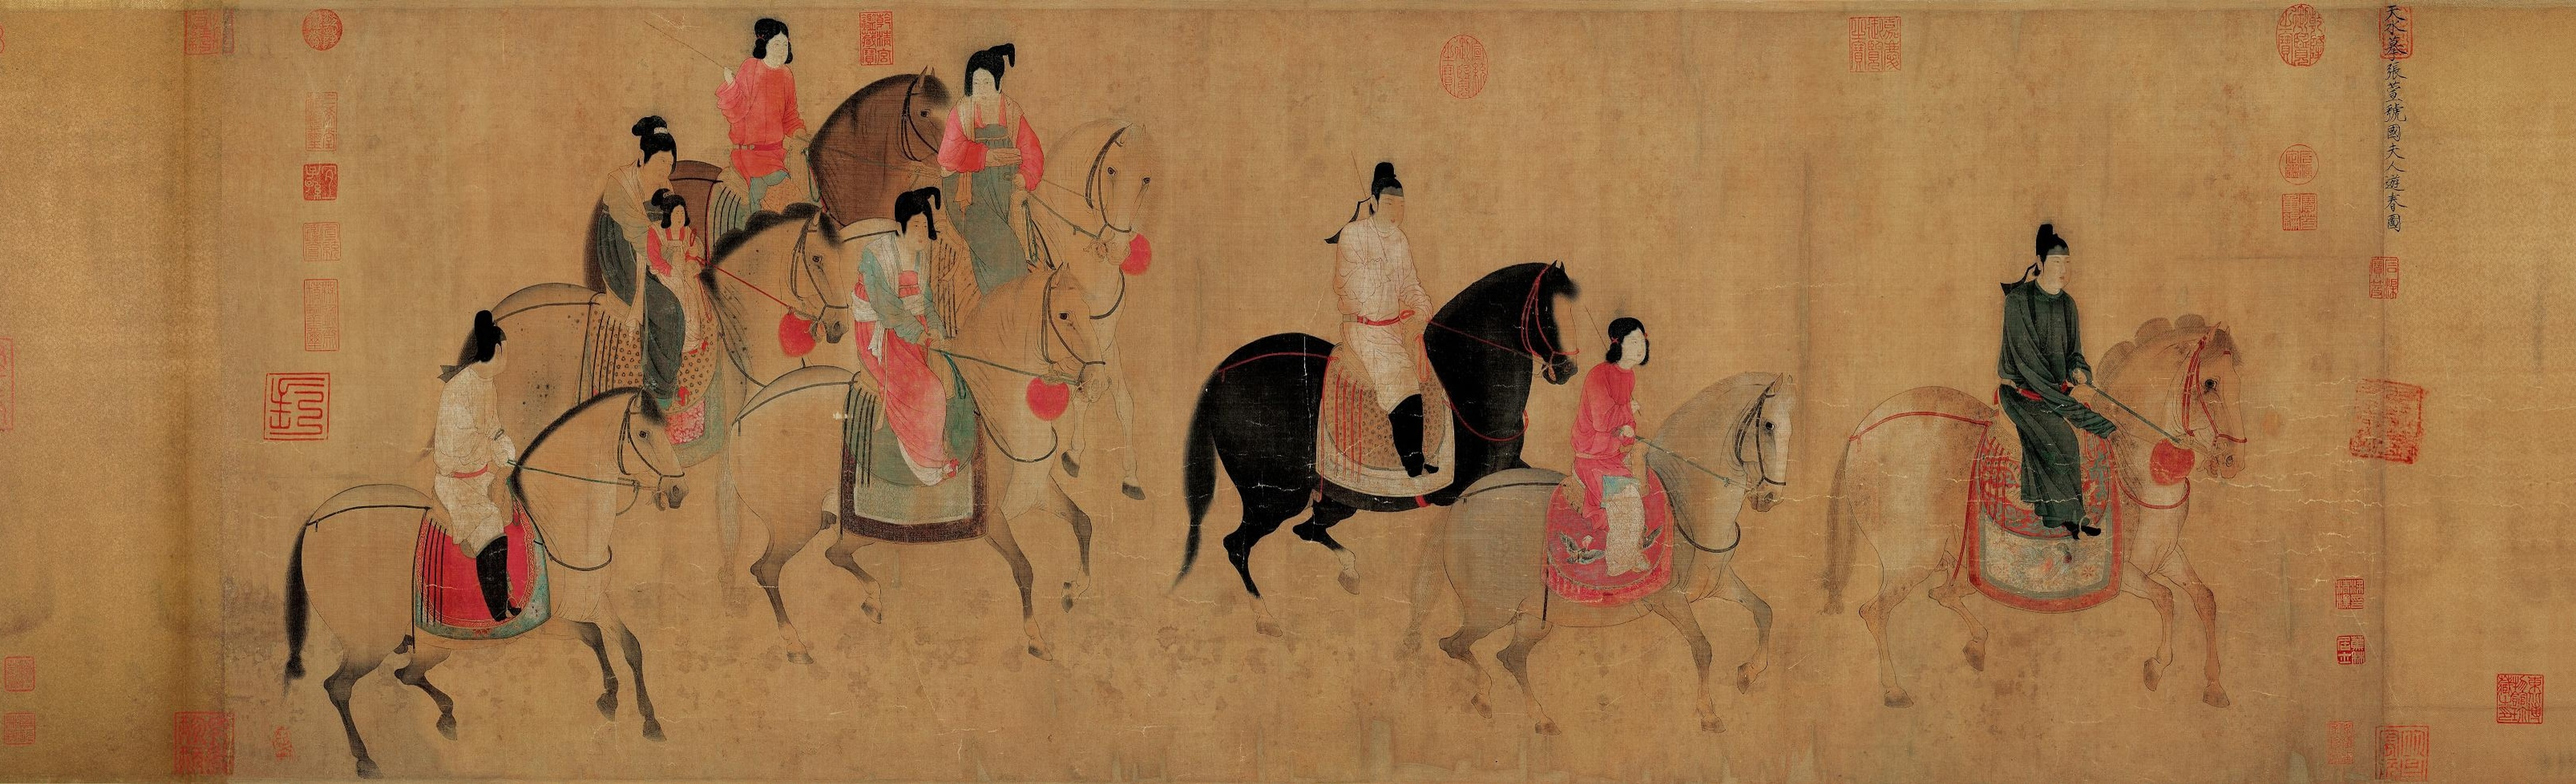
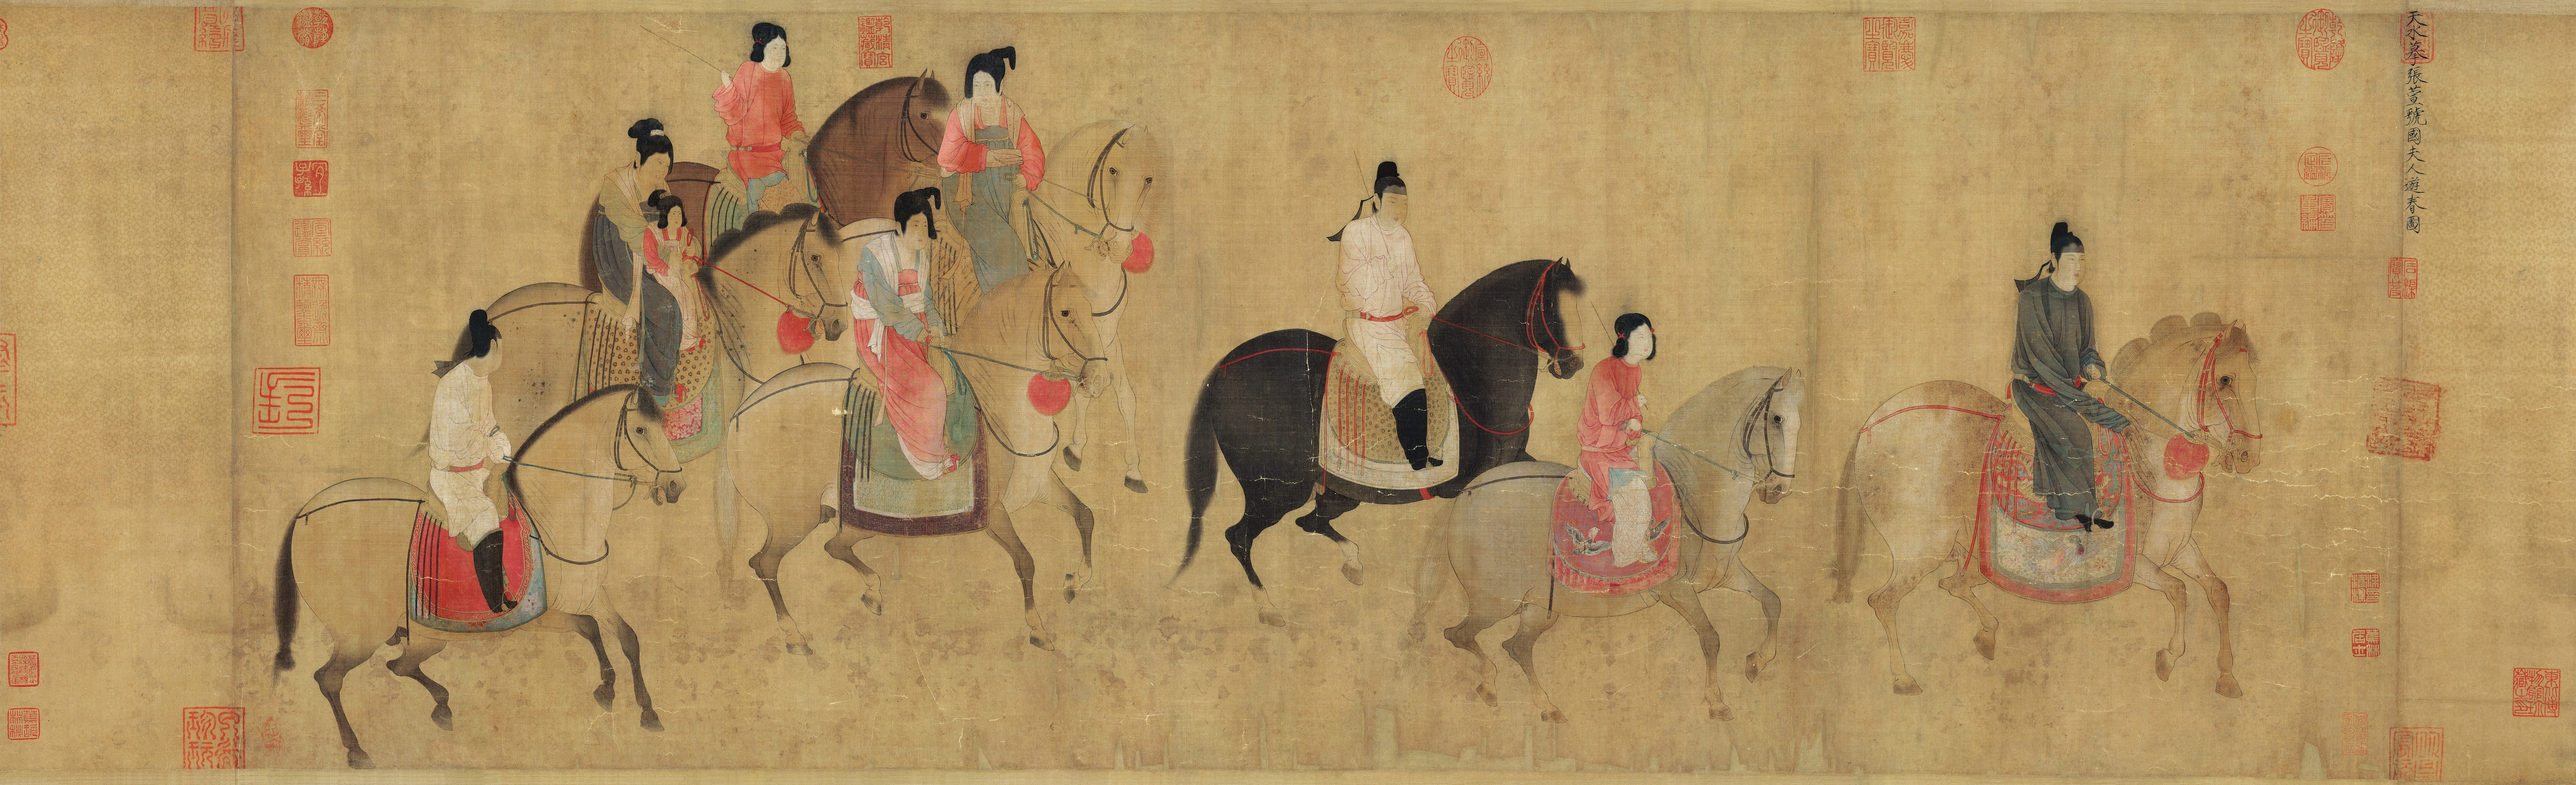
虢国夫人游春图: switch to the high-res scan, remap face boxes
The Commons scan was 979px tall with squashed highlights (98th percentile
at 149/255), so faces were ~40px and grey against the silk. Use the
jiguzuo.com scan (26457x5847) cropped to the painting and scaled to
6428x1961: real detail at ~80px per face and proper contrast. Boxes were
moved over by patch matching (scale 0.98, NCC 0.94-0.97 per face).

diff --git a/lib/faceRegions.js b/lib/faceRegions.js
@@ -30,12 +30,12 @@ export const FACE_REGIONS = {
     pounder     : { x:0.7288, y:0.2688, w:0.0132, h:0.0892, angle:-23, faceAngle:'front', skinSample:{ cx:0.7334, cy:0.2794, r:0.0017 }, labFade:0.5 },
   },
   guoguo: {
-    guoguo      : { x:0.3517, y:0.2732, w:0.0090, h:0.0424, angle:0, faceAngle:'front', skinSample:{ cx:0.3547, cy:0.2988, r:0.0040 }, labFade:0.5 },
-    hanguo      : { x:0.3779, y:0.0868, w:0.0093, h:0.0449, angle:0, faceAngle:'front', skinSample:{ cx:0.3811, cy:0.1149, r:0.0040 }, labFade:0.5 },
-    rider       : { x:0.5328, y:0.2492, w:0.0128, h:0.0405, angle:0, faceAngle:'three_quarter_right', skinSample:{ cx:0.5383, cy:0.2707, r:0.0040 }, labFade:0.5, topFeather:0.2 },
-    leader      : { x:0.7925, y:0.3248, w:0.0124, h:0.0390, angle:0, faceAngle:'three_quarter_right', skinSample:{ cx:0.7965, cy:0.3473, r:0.0040 }, labFade:0.5, topFeather:0.2 },
-    maid        : { x:0.2964, y:0.0419, w:0.0096, h:0.0439, angle:0, faceAngle:'three_quarter_right', skinSample:{ cx:0.3002, cy:0.0689, r:0.0040 }, labFade:0.5 },
-    girl        : { x:0.6297, y:0.4203, w:0.0095, h:0.0409, angle:0, faceAngle:'three_quarter_right', skinSample:{ cx:0.6332, cy:0.4469, r:0.0040 }, labFade:0.5 },
+    guoguo      : { x:0.3519, y:0.2700, w:0.0092, h:0.0432, angle:0, faceAngle:'front', skinSample:{ cx:0.3550, cy:0.2961, r:0.0040 }, labFade:0.5 },
+    hanguo      : { x:0.3780, y:0.0905, w:0.0095, h:0.0457, angle:0, faceAngle:'front', skinSample:{ cx:0.3813, cy:0.1191, r:0.0040 }, labFade:0.5 },
+    rider       : { x:0.5341, y:0.2456, w:0.0131, h:0.0413, angle:0, faceAngle:'three_quarter_right', skinSample:{ cx:0.5398, cy:0.2675, r:0.0040 }, labFade:0.5, topFeather:0.2 },
+    leader      : { x:0.7979, y:0.3205, w:0.0127, h:0.0397, angle:0, faceAngle:'three_quarter_right', skinSample:{ cx:0.8020, cy:0.3434, r:0.0040 }, labFade:0.5, topFeather:0.2 },
+    maid        : { x:0.2955, y:0.0469, w:0.0098, h:0.0447, angle:0, faceAngle:'three_quarter_right', skinSample:{ cx:0.2993, cy:0.0744, r:0.0040 }, labFade:0.5 },
+    girl        : { x:0.6324, y:0.4116, w:0.0097, h:0.0417, angle:0, faceAngle:'three_quarter_right', skinSample:{ cx:0.6360, cy:0.4387, r:0.0040 }, labFade:0.5 },
   },
   yinger: {
     topleft     : { x:0.2061, y:0.0727, w:0.0393, h:0.1153, angle:20, faceAngle:'three_quarter_right', skinSample:{ cx:0.2322, cy:0.1066, r:0.0052 }, labFade:1 },

diff --git a/lib/paintingPages.js b/lib/paintingPages.js
@@ -61,11 +61,11 @@ const PAGES = {
   guoguo: {
     slug: 'lady-guoguos-spring-outing',
     artistEn: 'After Zhang Xuan; Northern Song copy', artistZh: '张萱原作，北宋摹本',
-    width: 6428, height: 1958,
+    width: 6428, height: 1961,
     museumEn: 'Liaoning Provincial Museum, Shenyang',
     museumZh: '辽宁省博物馆',
-    creditEn: 'Image: Wikimedia Commons (public domain). The later colophon on the left of the scroll is not shown',
-    creditZh: '图片：维基共享资源（公有领域）。卷尾后人题跋未包含在内',
+    creditEn: 'The later colophon on the left of the scroll is not shown',
+    creditZh: '卷尾后人题跋未包含在内',
     introEn: [
       "Lady Guoguo's Spring Outing (Guoguo furen youchun tu) is a handscroll in ink and color on silk. The original was painted by Zhang Xuan, a Tang court painter of the 8th century, and is lost. The scroll that survives is a Northern Song court copy; an inscription at its start, traditionally read as the Jin emperor Zhangzong's, says it was copied after Zhang Xuan.",
       'Lady Guoguo was an elder sister of Yang Guifei, the favorite consort of Emperor Xuanzong, and was famous for her beauty and extravagance. Du Fu wrote about the Yang sisters riding out by the Qujiang river in spring in his poem "Beautiful Women" (Liren xing).',

diff --git a/lib/paintings.js b/lib/paintings.js
@@ -98,9 +98,9 @@ export const PAINTINGS = [
     scene: 'In the imperial weaving chamber, silk gleams under the afternoon light — the sound of pounding, the pull of thread, the hiss of the iron, all moving in the ancient rhythm of the court.',
     sceneZh: '宫中织室，绢帛在午后光线下流光溢彩，捣练声、络线声、熨布声交织，千年宫廷的节律在指尖流转。',
   },
-  // Stored at 2x the Commons scan (Lanczos): the faces are only ~30x40px in
-  // the 979px-tall original, so the pasted portrait would be cut down to that.
-  // The later colophon on the left of the scan is cropped off.
+  // High-res scan (jiguzuo.com, 26457px wide) cropped to the painting -- the
+  // later colophon on the left and the mounting are cut off -- and scaled to
+  // 6428px wide, which keeps each face about 80px tall.
   {
     id: 'guoguo',
     directImageUrl: '/paintings/guoguo.jpg',
